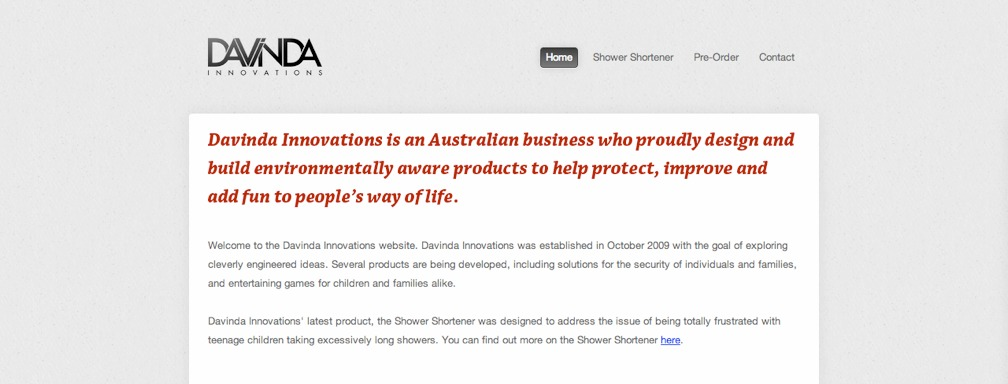
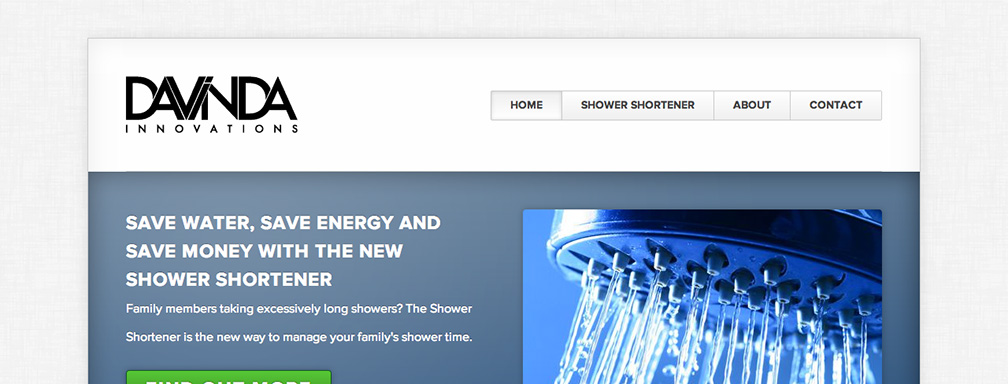
Updated davinda images and blurb

diff --git a/portfolio/index.html b/portfolio/index.html
@@ -86,10 +86,10 @@ title: Portfolio
     <img src="/img/portfolio/preview/davinda.jpg" alt="Davinda Innovations">
   </a>
   <p>
-    I developed the <em>Davinda Innovations</em> website using a custom back-end
-    built with <a href="http://www.sinatrarb.com/" target="_blank">Sinatra</a>
-    to allow for easy editing and to facilitate pre-orders of their up-coming
-    product, the <em>Shower Shortener</em>.
+    I developed the <em>Davinda Innovations</em> website using the
+    <a href="http://www.concrete5.org/" target="_blank">Concrete5</a> CMS. The
+    site was designed to promote their new product, the
+    <em>Shower Shortener</em>.
   </p>
 </article>
 
